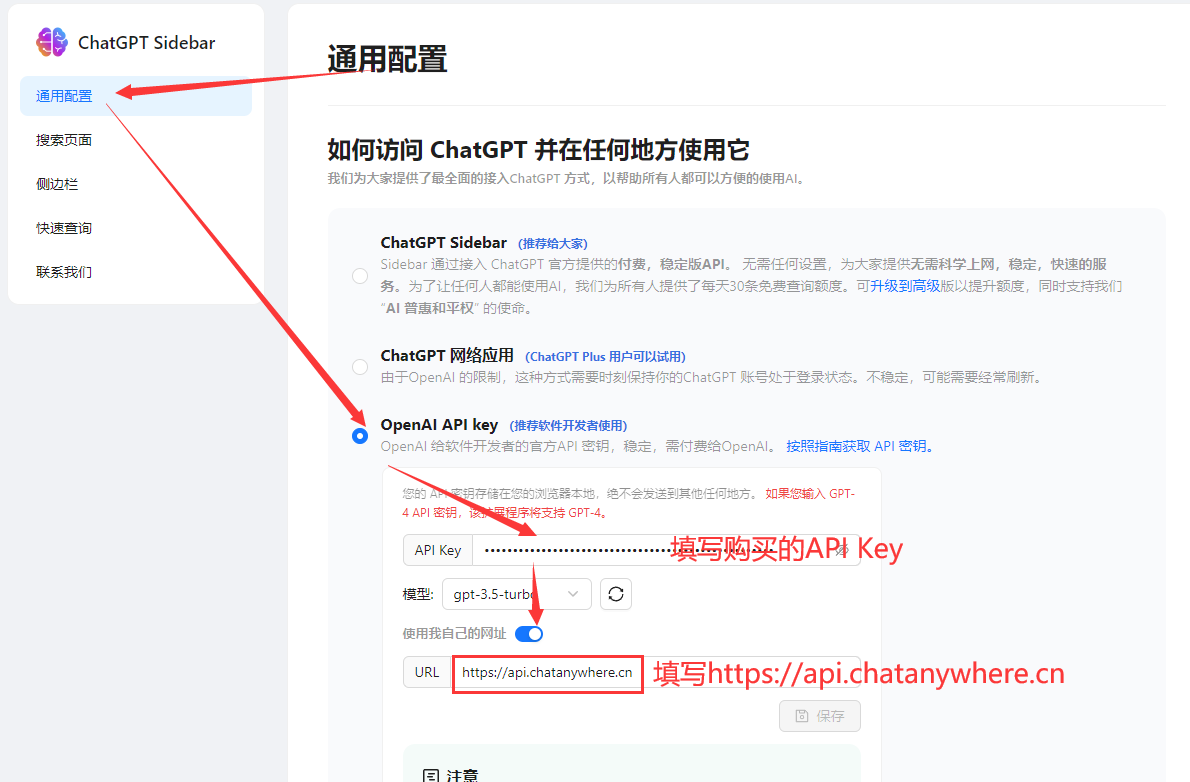
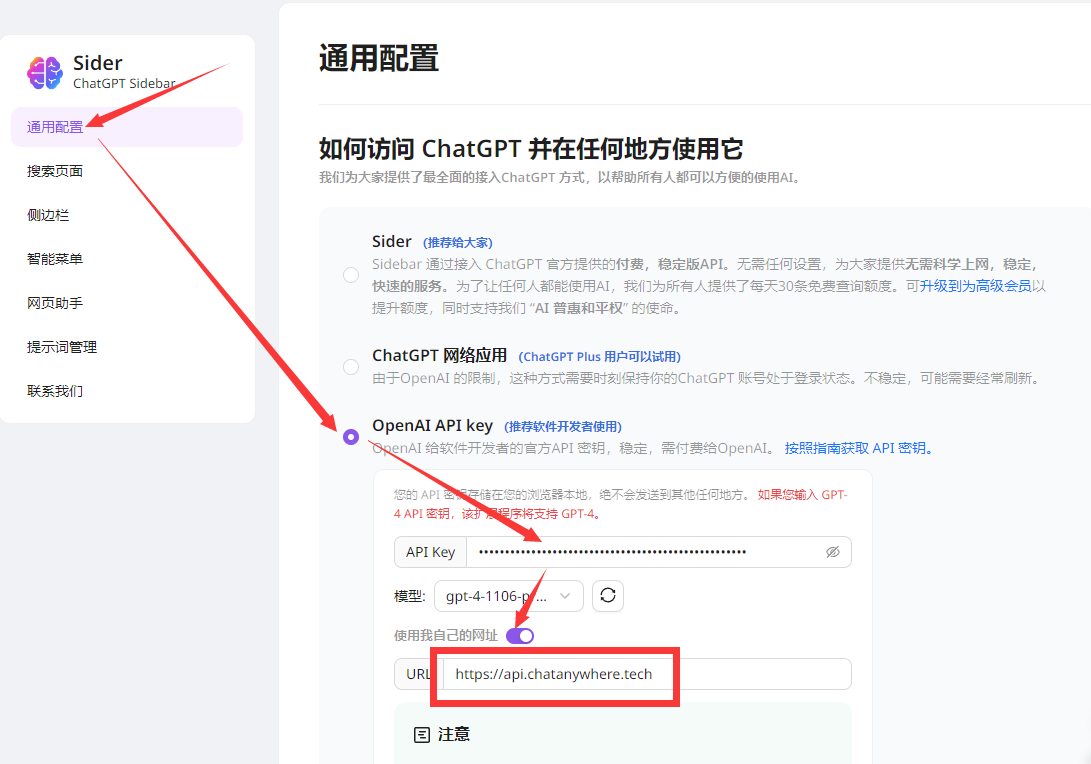
update readme

diff --git a/README.md b/README.md
@@ -22,7 +22,7 @@
 
 🎈 新模型：gpt-4-vision-preview模型已推出（但请注意，官方限制尚未解除，可能碰到官方限制）
 
-🔚 结束：本次活动为限量活动，优惠额度用完即止，有需要的抓紧机会哦～
+🔚 结束：12月14日0点结束。
 
 🌟 ChatAnywhere —— 与GPT携手并进，开启智能对话的新篇章！ 🌟
 
@@ -73,13 +73,14 @@
 ## 免费使用
 
 - **🚀[申请领取内测免费API Key](https://api.chatanywhere.org/v1/oauth/free/github/render)**
-- **转发Host1: `https://api.chatanywhere.com.cn` (国内中转，延时更低，推荐)**
-- **转发Host2: `https://api.chatanywhere.cn` (国外使用,国内需要全局代理)**
+- **转发Host1: `https://api.chatanywhere.tech` (国内中转，延时更低，host1和host2二选一)**
+- **转发Host2: `https://api.chatanywhere.com.cn` (国内中转，延时更低，host1和host2二选一)**
+- **转发Host3: `https://api.chatanywhere.cn` (国外使用,国内需要全局代理)**
 
 
 我们会定期根据使用量进行相应的扩容，只要不被官方制裁我们会一直提供免费API，如果该项目对你有帮助，还请为我们点一个***Star***。如果遇到问题可以在[Issues](https://github.com/chatanywhere/GPT_API_free/issues)中反馈，有空会解答。
 
-该API Key用于转发API，需要将Host改为`api.chatanywhere.com.cn`(国内首选)或者`api.chatanywhere.cn`(国外使用，国内需要全局代理)。
+该API Key用于转发API，需要将Host改为`api.chatanywhere.tech`(国内首选)或者`api.chatanywhere.cn`(国外使用，国内需要全局代理)。
 
 ## 付费版API
 - 纯公益提供免费Key显然不是能持久运营下去的方案，所以我们引入付费API Key维持项目的日常开销，以促进项目的良性循环，还望大家理解。
@@ -94,10 +95,11 @@
 ## 如何使用
 - 由于频繁的恶意请求，我们不再直接提供公共的免费Key，现在需要你使用你的Github账号绑定来领取你自己的免费Key。
 - 🚀[申请领取内测免费API Key](https://api.chatanywhere.org/v1/oauth/free/github/render) 或 [购买内测付费API Key](https://peiqi.shop/)
-- 转发Host1: `https://api.chatanywhere.com.cn` (国内中转，延时更低，推荐)
-- 转发Host2: `https://api.chatanywhere.cn` (国外使用,国内需要全局代理)
-- 余额和使用记录查询（通知公告也会发在这里）: [余额查询及公告](https://api.chatanywhere.org/)
-- 转发API无法直接向官方接口api.openai.com发起请求，需要将请求地址改为api.chatanywhere.com.cn才可以使用，大部分插件和软件都可以修改。
+- 转发Host1: `https://api.chatanywhere.tech` (国内中转，延时更低，host1和host2二选一)
+- 转发Host2: `https://api.chatanywhere.com.cn` (国内中转，延时更低，host1和host2二选一)
+- 转发Host3: `https://api.chatanywhere.cn` (国外使用,国内需要全局代理)
+- 余额和使用记录查询（通知公告也会发在这里）: [余额查询及公告](https://api.chatanywhere.tech/)
+- 转发API无法直接向官方接口api.openai.com发起请求，需要将请求地址改为api.chatanywhere.tech才可以使用，大部分插件和软件都可以修改。
 
 ## 常见软件/插件使用方法
 
@@ -108,7 +110,7 @@
 
 ```python
 import openai
-openai.api_base = "https://api.chatanywhere.com.cn/v1"
+openai.api_base = "https://api.chatanywhere.tech/v1"
 # openai.api_base = "https://api.chatanywhere.cn/v1"
 ```
 
@@ -116,23 +118,32 @@ openai.api_base = "https://api.chatanywhere.com.cn/v1"
 
 修改环境变量OPENAI_API_BASE，各个系统怎么改环境变量请自行搜索，修改环境变量后不起作用请重启系统。
 ```bash
-OPENAI_API_BASE=https://api.chatanywhere.com.cn/v1
+OPENAI_API_BASE=https://api.chatanywhere.tech/v1
 或 OPENAI_API_BASE=https://api.chatanywhere.cn/v1
 ```
 ### **开源gpt_academic**
 找到`config.py`文件中的`API_URL_REDIRECT`配置并修改为以下内容：
 ```python
-API_URL_REDIRECT = {"https://api.openai.com/v1/chat/completions": "https://api.chatanywhere.com.cn/v1/chat/completions"}
+API_URL_REDIRECT = {"https://api.openai.com/v1/chat/completions": "https://api.chatanywhere.tech/v1/chat/completions"}
 # API_URL_REDIRECT = {"https://api.openai.com/v1/chat/completions": "https://api.chatanywhere.cn/v1/chat/completions"}
 ```
+### **BotGem(AMA)**
 
-### **ChatBox(推荐使用)**
+ChatGPT桌面应用，支持全平台，***支持gpt-4-vision***。
+
+下载链接：https://bytemyth.com/ama
+
+使用方法：下载安装后在设置中如图设置，并点击更新。
+
+![](images/botgem.png)
+
+### **ChatBox**
 
 ChatGPT开源桌面应用，支持全部桌面平台。
 
 下载链接：https://github.com/Bin-Huang/chatbox/releases
 
-使用方法：如图在设置中填入购买的密钥，并将代理设置为`https://api.chatanywhere.com.cn`即可
+使用方法：如图在设置中填入购买的密钥，并将代理设置为`https://api.chatanywhere.tech`即可
 
 ![](images/chatbox.png)
 
@@ -141,45 +152,24 @@ ChatGPT开源桌面应用，支持全部桌面平台。
 
 官网链接：https://chatgpt-sidebar.com/
 
-安装好插件后进入设置页面，如图所示修改设置，将url修改为 `https://api.chatanywhere.com.cn` 。
+安装好插件后进入设置页面，如图所示修改设置，将url修改为 `https://api.chatanywhere.tech` 。
 
 ![](images/sidebar.png)
 
 ### **Jetbrains插件ChatGPT - Easycode**
 <img src="./images/jet1.png" width='200'/>
 
-安装好插件后在Settings > Tools > OpenAI > GPT 3.5 Turbo中如图所示配置好插件，重点要将Server Settings 修改为 `https://api.chatanywhere.com.cn/v1/chat/completions` 。并勾选Customize Server。
+安装好插件后在Settings > Tools > OpenAI > GPT 3.5 Turbo中如图所示配置好插件，重点要将Server Settings 修改为 `https://api.chatanywhere.tech/v1/chat/completions` 。并勾选Customize Server。
 
 ![](images/jet2.png)
 
-
-### **VSCode插件Code GPT**
-<img src="./images/codegpt1.png" width='300'/>
-
-这个插件修改Host相对麻烦一些，需要修改源码才可以使用。
-
-1. 安装插件。安装好后按Ctrl+Shift+P，弹出框中输入Open Extensions Floder
-![](images/codegpt2.png)
-
-2. 点击Extensions: Open Extensions Floder，这将打开插件目录，找到Code GPT的文件夹。
-![](images/codegpt3.png)
-
-3. 打开后进入打开文件./src/clients/openai_client.js，搜索文件中的api.openai.com，并替换为 `api.chatanywhere.com.cn`。保存文件。
-![](images/codegpt4.png)
-
-4. 再次回到vscode，按Ctrl+Shift+P，弹出框中输入CodeGPT: Set API KEY，点击CodeGPT: Set API KEY。然后将购买的Key输入进去即可。
-![](images/codegpt5.png)
-
-5. 以上步骤完成后，重启VSCode
-
-- 其他VSCode插件类似。
 
 ### **Raycast 插件 ChatGPT（推荐使用）**
 
 1. 在 Raycast Store 中找到 ChatGPT 插件，并按照提示安装：
 ![](images/raycast1.png)
 
-2. 安装完成后在该插件配置中的 `API Key` 中填入我们的API Key，以及选中 `Change API Endpoint`，并在 `API Endpoint` 中填入 `https://api.chatanywhere.com.cn/v1`
+2. 安装完成后在该插件配置中的 `API Key` 中填入我们的API Key，以及选中 `Change API Endpoint`，并在 `API Endpoint` 中填入 `https://api.chatanywhere.tech/v1`
 ![](images/raycast2.png)
 ![](images/raycast3.png)
 
